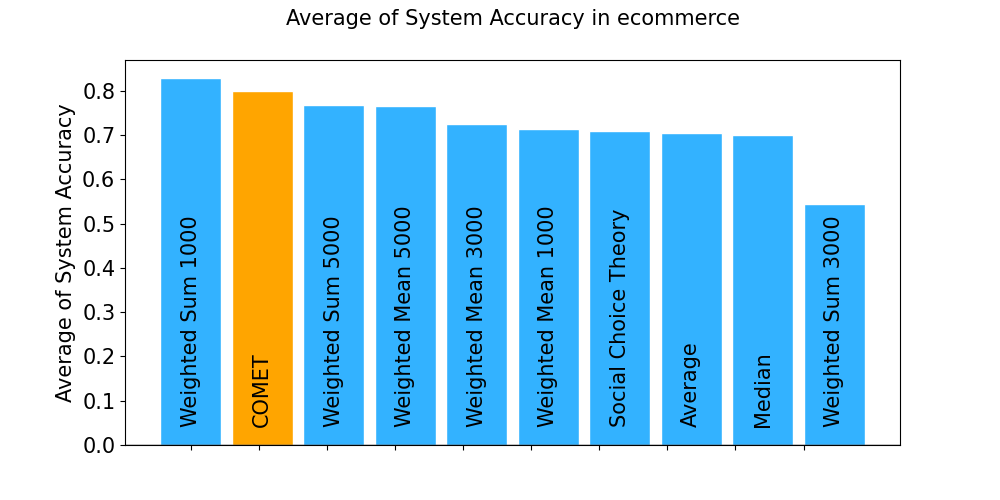
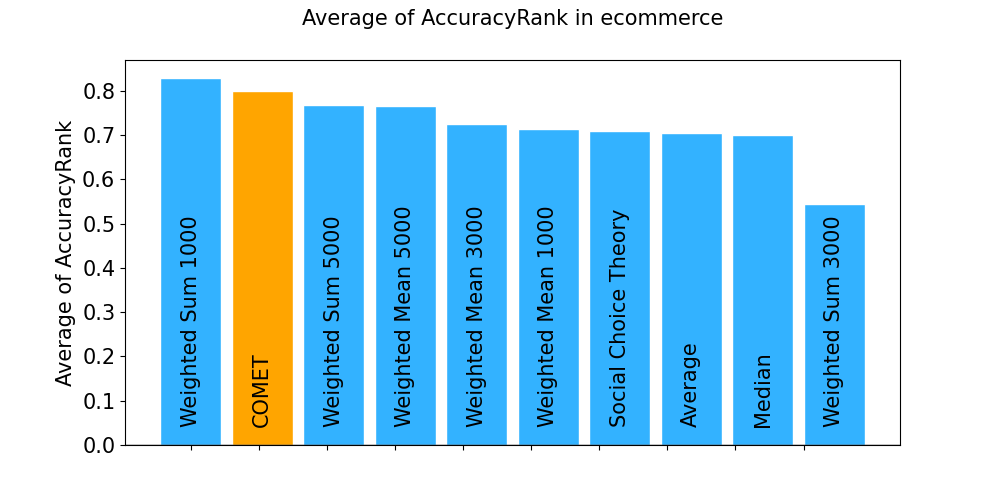
[5.19] Evaluations closes #115

Changed region(s): [[0.279, 0.0, 0.744, 0.06], [0.031, 0.21, 0.093, 0.81]]

diff --git a/telescope/bias_evaluation/WinoMT/evaluate.py b/telescope/bias_evaluation/WinoMT/evaluate.py
@@ -111,10 +111,12 @@ def identity_terms_found_info(s,m):
     recall = (tp)/(tp + fn)
     f1_score = (2 * precison * recall) / (precison + recall)
     diff_1, diff_2 = gender_list(index_list1,index_list2,gender_identity_terms_golden,gender_identity_terms_tool)
+    gender_equal = len(list_tp)-len(diff_1)
+    per = round(gender_equal/tp,2) * 100
 
     number_of_match = read_csv_file(file_info)["Number of identity terms that were matched"][0]
 
-    return [number_id_golden, number_id_tool, tp, fp, fn, round(precison,3), round(recall,3), round(f1_score,3), len(list_tp)-len(diff_1)], [number_of_match, number_id_tool]
+    return [number_id_golden, number_id_tool, tp, fp, fn, round(precison,3), round(recall,3), round(f1_score,3), gender_equal, per], [number_of_match, number_id_tool]
 
 def time_bias_evlaution(s,m):
     file_info_join = "test-WinoMT/tool_test-WinoMT/en_source.txt/pt_ref_" + s + ".txt/bias_evaluation/" + m + "/bias_evaluations_information.csv"
@@ -198,7 +200,8 @@ if __name__ == "__main__":
         names_datasets_time = []
         for s in sys:
             time += time_bias_evlaution(s,m)
-        times_method[m] = time 
+        mean = sum(time)/len(time)
+        times_method[m] = time + [round(mean,3)]
 
 
     print(Fore.CYAN + "Identity Terms Found Table")
@@ -206,7 +209,7 @@ if __name__ == "__main__":
     p_fp_fn_gender_pd = pd.DataFrame(tp_fp_fn_gender)
     p_fp_fn_gender_pd.index = ["Number of identity terms in gold data ", "Number of identity terms found in tool", 
                                 "True Positive", "False Positive", "False Negative","Precison", 
-                                "Recall", "F1 Score", "Correct gender in True Positive"]
+                                "Recall", "F1 Score", "Correct gender in True Positive", "%"]
     print(p_fp_fn_gender_pd)
     print("\n")
     p_fp_fn_gender_pd.to_csv("data_evaluation/identity_terms_found.csv")
@@ -224,7 +227,7 @@ if __name__ == "__main__":
     print(Fore.CYAN + "Bias Evaluation Time")
     print(Fore.WHITE)
     pd_time = pd.DataFrame(times_method)
-    pd_time.index = dataset_name
+    pd_time.index = dataset_name + ["mean"]
     print(pd_time)
     print("\n")
     pd_time.to_csv("data_evaluation/time_evaluation.csv")

diff --git a/telescope/universal_metrics/calcalute_evaluation/evaluate_mean.py b/telescope/universal_metrics/calcalute_evaluation/evaluate_mean.py
@@ -61,7 +61,7 @@ def calcualte_mean_per_domain(input_path:str, domain:str):
                 a_correlations_data[name].append(data["System Accuracy"])
 
     print(a_correlations_data)
-    pd_dict = pd.DataFrame({metric:[sum(corr)/len(corr)] for metric, corr in a_correlations_data.items()},index=["Average of System Accuracy"])
+    pd_dict = pd.DataFrame({metric:[sum(corr)/len(corr)] for metric, corr in a_correlations_data.items()},index=["Average of AccuracyRank"])
     pd_dict.to_csv(input_path + "/average/domain/" + domain  + "_evaluation.csv")    
     return {metric:sum(corr)/len(corr) for metric, corr in a_correlations_data.items()}
 
@@ -89,7 +89,7 @@ def calcualte_mean_per_language_pair(input_path:str, languages_pair:str):
                 a_correlations_data[name].append(data["System Accuracy"])
 
     print(a_correlations_data)
-    pd_dict = pd.DataFrame({metric:[sum(corr)/len(corr)] for metric, corr in a_correlations_data.items()},index=["Average of System Accuracy"])
+    pd_dict = pd.DataFrame({metric:[sum(corr)/len(corr)] for metric, corr in a_correlations_data.items()},index=["Average of AccuracyRank"])
     pd_dict.to_csv(input_path + "/average/language-pair/" + languages_pair  + "_evaluation.csv")
     return {metric:sum(corr)/len(corr) for metric, corr in a_correlations_data.items()}
 
@@ -134,8 +134,8 @@ def bars_ascending_plot(correlations_data:dict, t_name:str, output:str):
     plt.yticks(fontsize=size)
     
     plt.xticks(r, ["" for _ in range(len(metrics))],fontsize=30, weight='bold')
-    plt.ylabel("Average of System Accuracy",fontsize=size)
-    plt.title("Average of System Accuracy in " + t_name,fontsize=size, pad=25)
+    plt.ylabel("Average of AccuracyRank",fontsize=size)
+    plt.title("Average of AccuracyRank in " + t_name,fontsize=size, pad=25)
     plt.axhline(linewidth=1, color='black')
     plt.savefig(output + t_name  + "_evaluation.png")
     plt.clf()

diff --git a/telescope/universal_metrics/calcalute_evaluation/evaluate.py b/telescope/universal_metrics/calcalute_evaluation/evaluate.py
@@ -244,6 +244,12 @@ if __name__ == "__main__":
 
                     print(Fore.LIGHTYELLOW_EX + "\n------Reference: " + reference)
 
+                    path_lang_1 = args.output_path + "/" + args.languages_pair + "/"
+                    path_domain_2 = path_lang_1 + domain + "/"
+                    path_3 = path_domain_2 + "/" + reference + "/"
+                    if os.path.exists(path_3) and os.path.isfile(path_3 + "/evaluation.csv"):
+                        os.remove(path_3 + "/evaluation.csv")
+
                     metric_scores_file = reference_path + reference + "/results.csv"
                     evaluate_metrics(metric_scores_file, human_scores_file, args.languages_pair, reference, domain, args.output_path, args.metric)
 

diff --git a/telescope/collection_testsets.py b/telescope/collection_testsets.py
@@ -24,7 +24,9 @@ class CollectionTestsets:
     message_language = "Choose the language of the files (e.g. 'en')"
     last_sys_id = 1
     last_ref_id = 1
-    all_languages = ["X", "pt", "ar", "zh", "nl", "en", "fr", "de", "ru", "uk", "cs"]
+    list_langauges = ["pt", "ar", "zh", "nl", "en", "fr", "de", "ru", "uk", "cs"]
+    list_langauges.sort()
+    all_languages = ["X"] + list_langauges
     all_language_pairs = []
     for l1 in all_languages:
         for l2 in all_languages:
